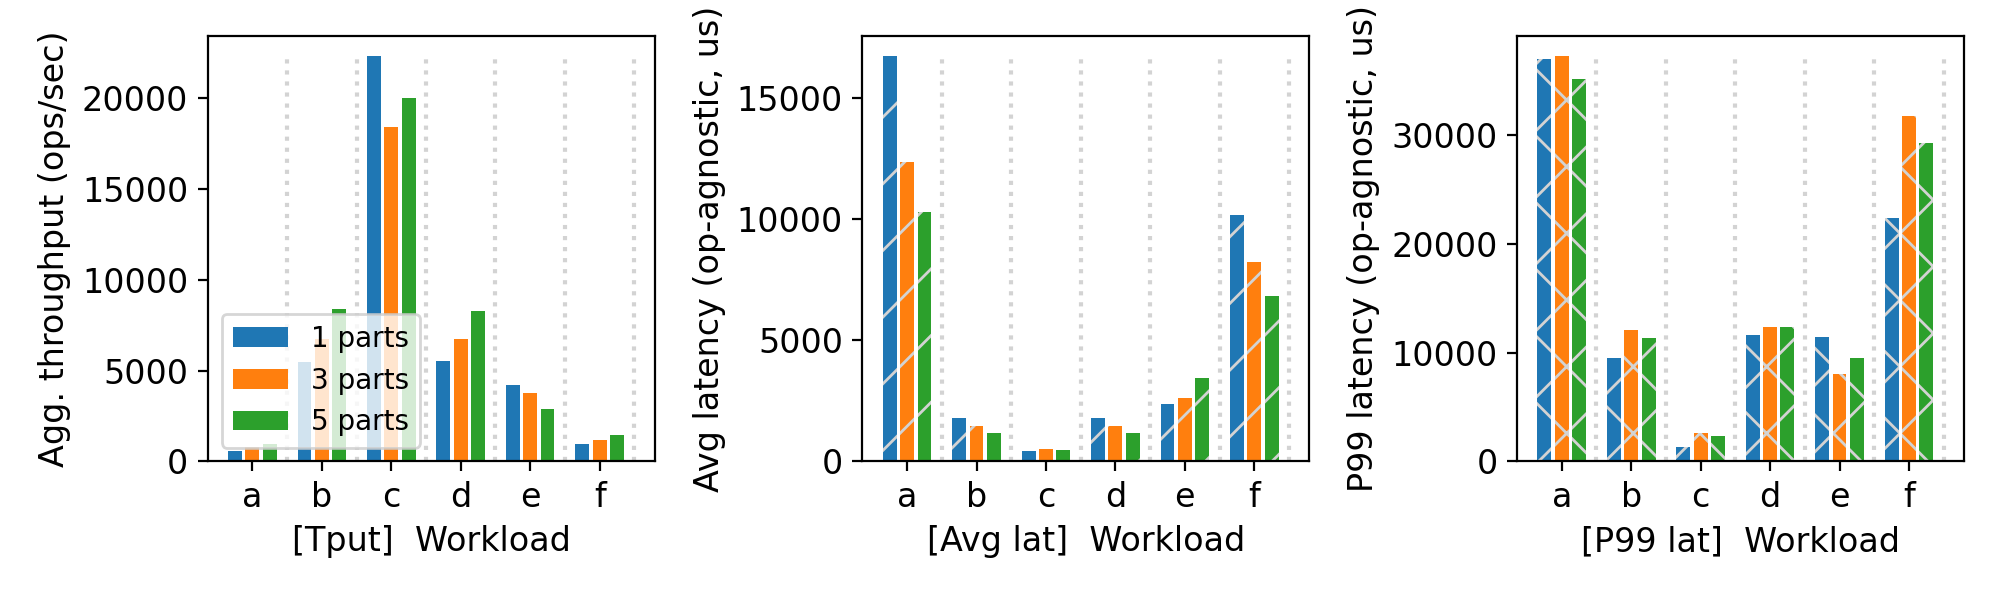
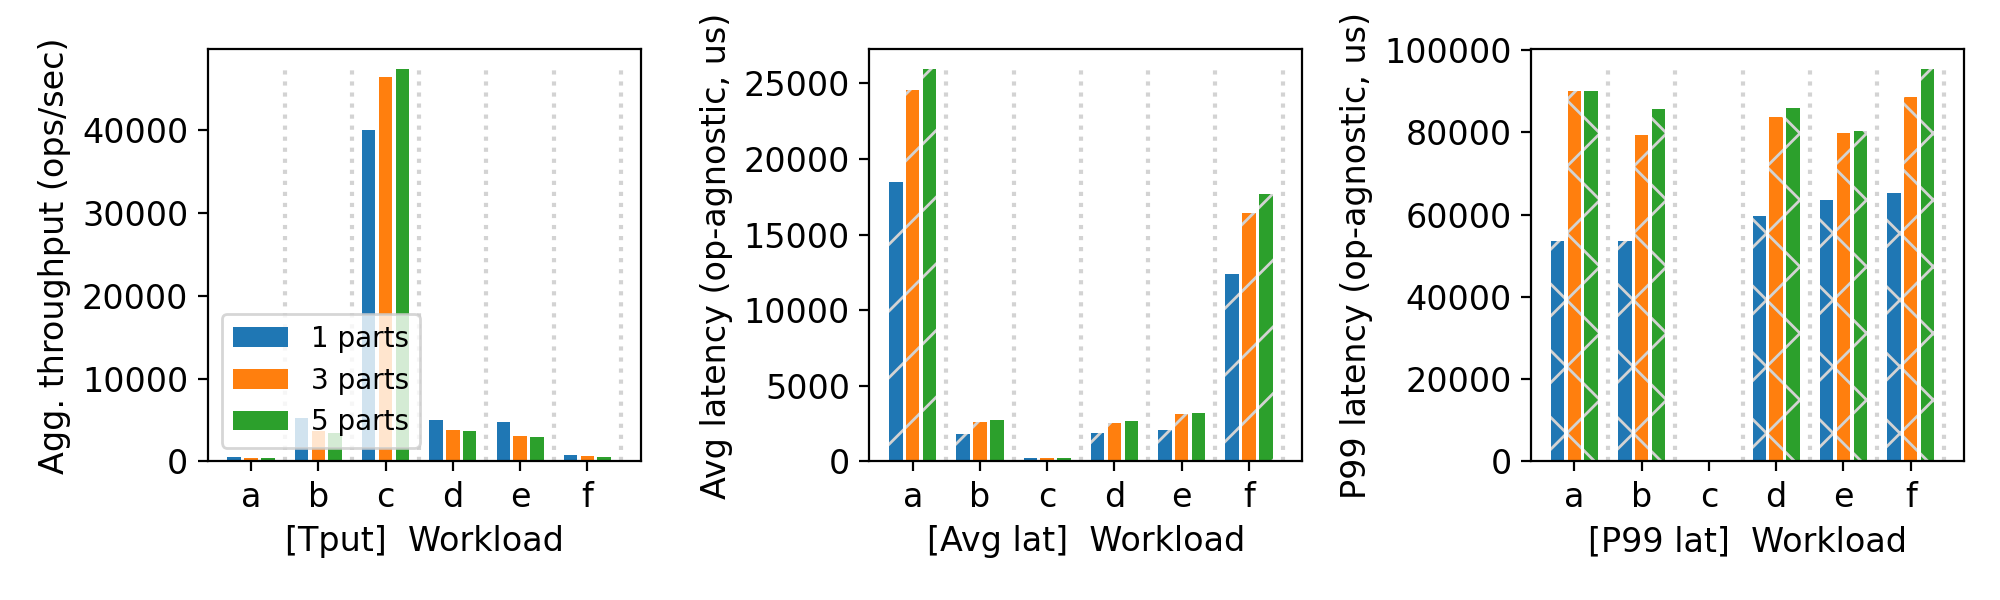
Added results

diff --git a/report/proj2.md b/report/proj2.md
@@ -1,22 +1,10 @@
 # CS 739 MadKV Project 2
 
-**Group members**: Karthik Reddy Jannupalli `jannupalli@wisc.edu`, Shivam Mittal `smittal39@wisc.edu`
+**Group members**: Name `email`, Name `email`
 
 ## Design Walkthrough
 
-We implemented Project 2 by extending our Project 1 gRPC KV store into a partitioned, durable service with three binaries: `kvmanager`, `kvserver`, and `kvclient`.
-
-**Code components structure.**  
-`kvmanager` tracks cluster membership and partition assignment metadata. `kvserver` owns one partition, persists data in RocksDB under its assigned backer directory, and serves KV RPCs. `kvclient` starts from manager metadata, builds connections to all partition servers, routes single-key operations by a stable hash (`FNV-1a`), and fans out `SCAN` to all partitions before merging by key.
-
-**Durability/recovery design & implementation.**  
-Each server is modeled as a state machine with a custom write-ahead log (WAL) stored as a plain file under the backer directory. The in-memory state is a sorted `std::map<string,string>`. Every mutating operation (`PUT`, `SWAP`, `DELETE`) is serialized as a compact log entry and appended to the WAL file with `fdatasync` before applying to the in-memory map. Recovery replays the WAL from the beginning to reconstruct the map. This approach uses fast sequential I/O for durability, decouples the command log from any storage engine, and prepares for state machine replication in Project 3.
-
-**Partitioning design & manager implementation.**  
-The manager is launched with the expected server address list. Server IDs map 1:1 to partition IDs for a fixed partitioning layout in this project. Servers register with manager at startup and wait until cluster readiness. Clients fetch cluster metadata from manager and then issue requests directly to partition servers (manager is not on the hot path after bootstrap).
-
-**Error and timeout handling.**  
-All cross-component RPC paths use retry loops with short backoff: server->manager registration, client->manager metadata fetch, and client->server operations. If a server is temporarily unavailable, clients keep retrying until the server is back. This behavior is what allows crash/recovery fuzz scenarios to continue without manual client restarts.
+*FIXME: add your design walkthrough text*
 
 ## Self-provided Testcase
 
@@ -24,18 +12,7 @@ You will run the described testcase during demo time.
 
 ### Explanations
 
-Our deterministic testcase follows the project spec sequence:
-
-1. Launch manager + 3 partition servers (`s0,s1,s2`).
-2. Issue multiple `PUT` and `SWAP` operations across keys that map to different partitions.
-3. Validate with successful `GET` and `SCAN`.
-4. Kill one partition server (we used `s1`).
-5. Confirm unaffected-partition `GET`/`SCAN` still succeed.
-6. Confirm a request involving the failed partition blocks/fails until recovery.
-7. Restart the failed partition server with the same backer path.
-8. Re-run `GET` on existing keys from that partition and confirm latest values are preserved.
-
-This testcase directly validates both partition isolation and durable crash recovery.
+*FIXME: add your explanation of this testcase*
 
 ## Fuzz Testing
 
@@ -51,15 +28,7 @@ You will run a crashing/recovering fuzz test during demo time.
 
 ### Comments
 
-All three required fuzz scenarios passed:
-
-- `3 servers, no crash`: passed consistently.
-- `3 servers, with crash/recovery`: passed; clients stalled briefly during outage and resumed after restart.
-- `5 servers, with dual crash/recovery`: passed with the same retry/recovery logic.
-
-These runs validated two important properties in our implementation:  
-(1) client retry behavior is robust under transient server failures, and  
-(2) durable state survives server restarts when the same backer directories are reused.
+*FIXME: add your comments on fuzz testing*
 
 ## YCSB Benchmarking
 
@@ -73,24 +42,9 @@ These runs validated two important properties in our implementation:
 
 ### Comments
 
-Observed trends from our collected logs:
-
-- For `10` clients, throughput improves as partitions increase from `1 -> 3 -> 5` for all workloads A-F.  
-  Example (ops/sec):  
-  - Workload A: `332.29 -> 410.04 -> 484.28`  
-  - Workload C: `334.49 -> 413.17 -> 543.11`  
-  - Workload F: `335.47 -> 404.85 -> 503.72`
-- For workload A client scaling, `5` partitions scale much better than `1` partition at moderate/high concurrency:  
-  - `1 partition` (1,10,20,30 clients): `325.74, 332.29, 337.66, 341.89`  
-  - `5 partitions` (1,10,20,30 clients): `296.54, 484.28, 522.21, 512.60`
-- At very low concurrency (`1` client), partitioning adds overhead (extra manager/bootstrap + distributed routing), so `5` partitions can be slightly lower than `1`.
-- As concurrency rises, partitioning reduces server-side contention and increases aggregate throughput, which is the main expected Project 2 benefit.
+*FIXME: add your discussions of benchmarking results*
 
 ## Additional Discussion
 
-**Physical setup used for testing/benchmarking.**  
-We ran all required scenarios on a single machine with multiple local processes bound to different ports. This keeps the relative trend analysis meaningful while fitting local resource constraints.
-
-**Current limitations / future improvements.**  
-Manager is still a single point of failure (as expected for Project 2). `SCAN` is implemented as a cross-partition fan-out merge and is not globally atomic, matching the spec's relaxed scan consistency requirement for this stage.
+*OPTIONAL: add extra discussions if applicable*
 
